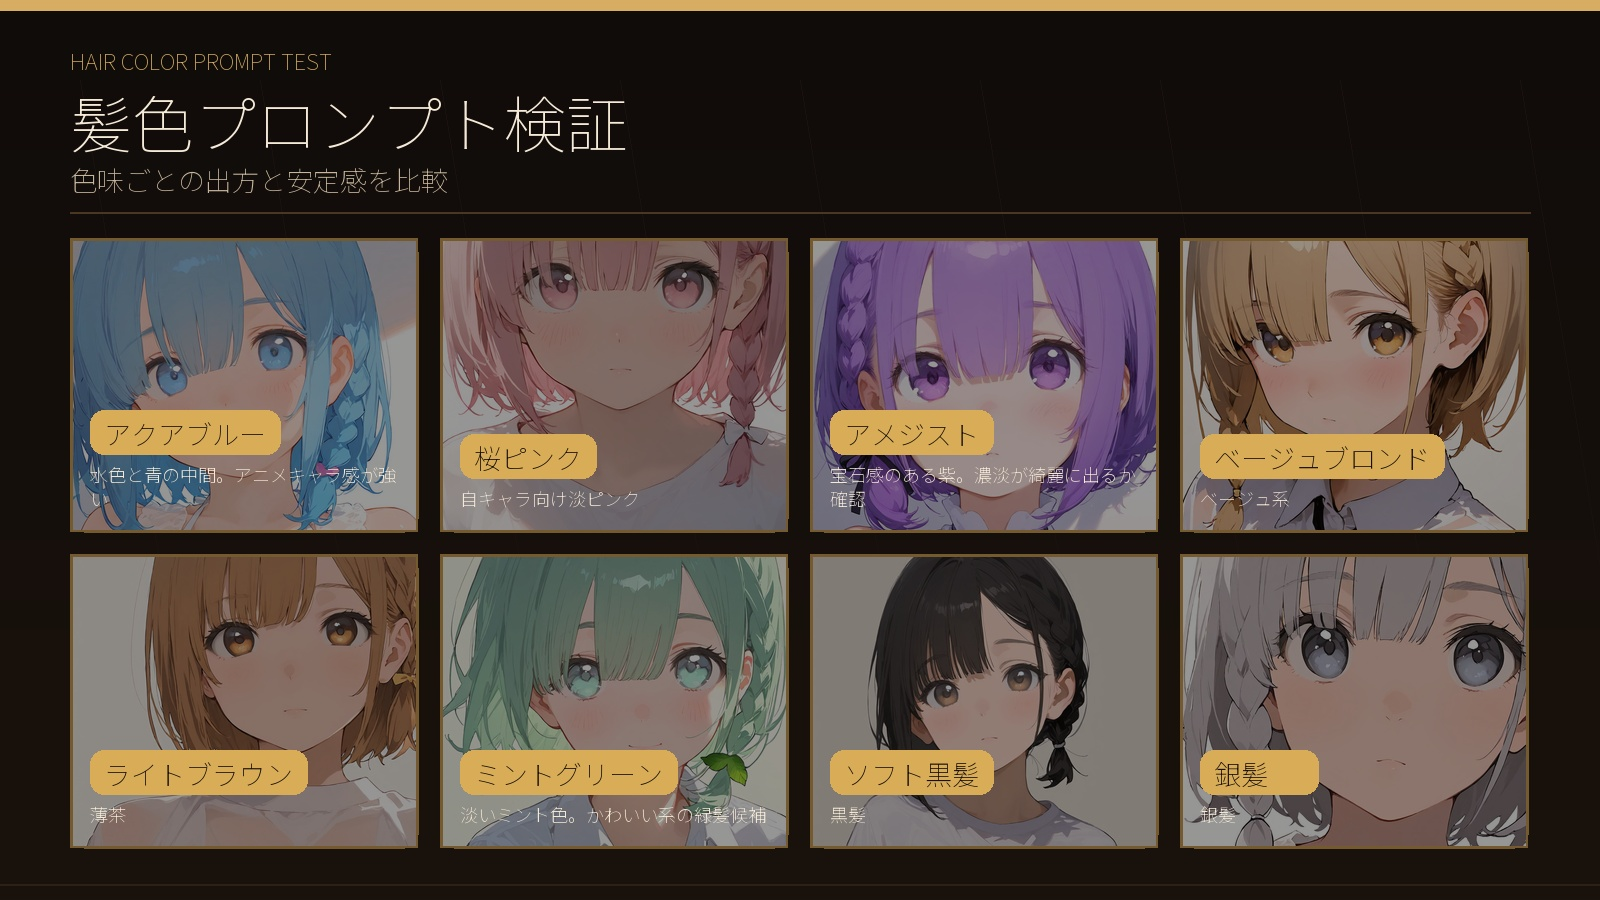
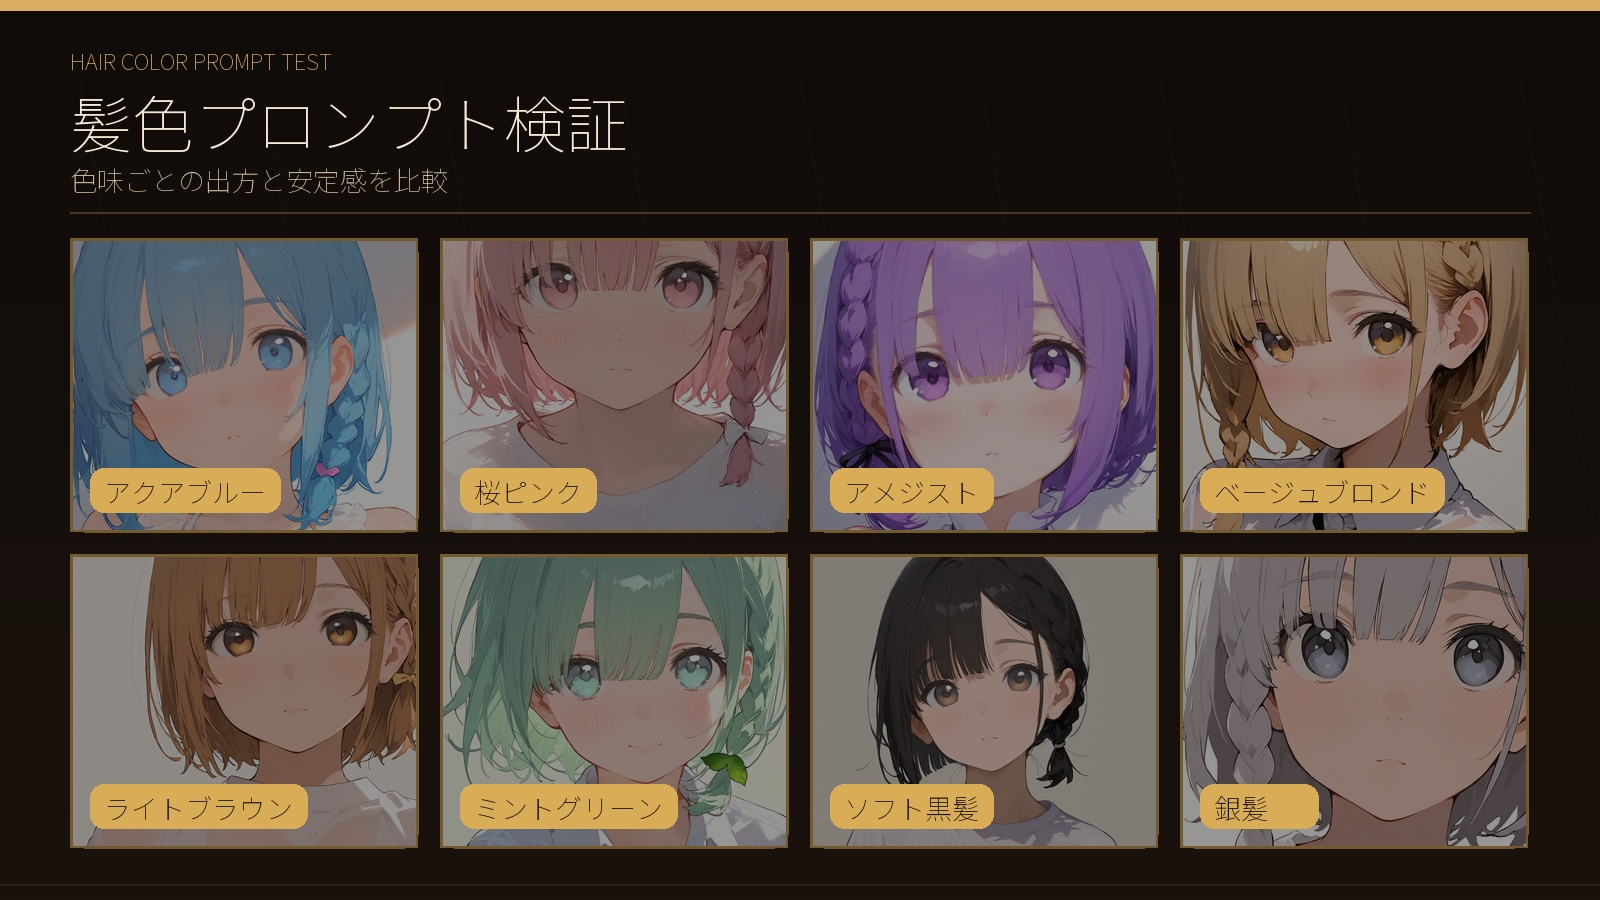
Use portrait grid research intro visuals

diff --git a/research/background/index.html b/research/background/index.html
@@ -63,8 +63,8 @@
             </div>
           </div>
           <figure class="research-intro-visual">
-            <button class="research-intro-trigger" type="button" data-full-src="../../assets/images/research/intro/research_background_2160x2160.jpg" data-full-alt="背景プロンプト検証の紹介画像" aria-label="背景プロンプト検証の紹介画像を拡大表示">
-              <img src="../../assets/images/research/intro/research_background_2160x2160.jpg" alt="背景プロンプト検証の紹介画像" width="2160" height="2160" loading="eager" decoding="async">
+            <button class="research-intro-trigger" type="button" data-full-src="../../assets/images/research/intro/research_background_2160x2880.jpg" data-full-alt="背景プロンプト検証の紹介画像" aria-label="背景プロンプト検証の紹介画像を拡大表示">
+              <img src="../../assets/images/research/intro/research_background_2160x2880.jpg" alt="背景プロンプト検証の紹介画像" width="2160" height="2880" loading="eager" decoding="async">
             </button>
           </figure>
         </section>

diff --git a/research/hair-color/index.html b/research/hair-color/index.html
@@ -63,8 +63,8 @@
             </div>
           </div>
           <figure class="research-intro-visual">
-            <button class="research-intro-trigger" type="button" data-full-src="../../assets/images/research/intro/research_hair_color_2160x2160.jpg" data-full-alt="髪色プロンプト検証の紹介画像" aria-label="髪色プロンプト検証の紹介画像を拡大表示">
-              <img src="../../assets/images/research/intro/research_hair_color_2160x2160.jpg" alt="髪色プロンプト検証の紹介画像" width="2160" height="2160" loading="eager" decoding="async">
+            <button class="research-intro-trigger" type="button" data-full-src="../../assets/images/research/intro/research_hair_color_2160x2880.jpg" data-full-alt="髪色プロンプト検証の紹介画像" aria-label="髪色プロンプト検証の紹介画像を拡大表示">
+              <img src="../../assets/images/research/intro/research_hair_color_2160x2880.jpg" alt="髪色プロンプト検証の紹介画像" width="2160" height="2880" loading="eager" decoding="async">
             </button>
           </figure>
         </section>

diff --git a/research/hairstyle/index.html b/research/hairstyle/index.html
@@ -63,8 +63,8 @@
             </div>
           </div>
           <figure class="research-intro-visual">
-            <button class="research-intro-trigger" type="button" data-full-src="../../assets/images/research/intro/research_hairstyle_2160x2160.jpg" data-full-alt="髪型プロンプト検証の紹介画像" aria-label="髪型プロンプト検証の紹介画像を拡大表示">
-              <img src="../../assets/images/research/intro/research_hairstyle_2160x2160.jpg" alt="髪型プロンプト検証の紹介画像" width="2160" height="2160" loading="eager" decoding="async">
+            <button class="research-intro-trigger" type="button" data-full-src="../../assets/images/research/intro/research_hairstyle_2160x2880.jpg" data-full-alt="髪型プロンプト検証の紹介画像" aria-label="髪型プロンプト検証の紹介画像を拡大表示">
+              <img src="../../assets/images/research/intro/research_hairstyle_2160x2880.jpg" alt="髪型プロンプト検証の紹介画像" width="2160" height="2880" loading="eager" decoding="async">
             </button>
           </figure>
         </section>

diff --git a/research/bangs/index.html b/research/bangs/index.html
@@ -63,8 +63,8 @@
             </div>
           </div>
           <figure class="research-intro-visual">
-            <button class="research-intro-trigger" type="button" data-full-src="../../assets/images/research/intro/research_bangs_2160x2160.jpg" data-full-alt="前髪プロンプト検証の紹介画像" aria-label="前髪プロンプト検証の紹介画像を拡大表示">
-              <img src="../../assets/images/research/intro/research_bangs_2160x2160.jpg" alt="前髪プロンプト検証の紹介画像" width="2160" height="2160" loading="eager" decoding="async">
+            <button class="research-intro-trigger" type="button" data-full-src="../../assets/images/research/intro/research_bangs_2160x2880.jpg" data-full-alt="前髪プロンプト検証の紹介画像" aria-label="前髪プロンプト検証の紹介画像を拡大表示">
+              <img src="../../assets/images/research/intro/research_bangs_2160x2880.jpg" alt="前髪プロンプト検証の紹介画像" width="2160" height="2880" loading="eager" decoding="async">
             </button>
           </figure>
         </section>

diff --git a/style.css b/style.css
@@ -1978,7 +1978,7 @@ h2 {
 }
 
 .research-hero-with-visual .research-intro-trigger img {
-  aspect-ratio: 1;
+  aspect-ratio: 3 / 4;
   max-height: 210px;
   object-fit: contain;
 }
